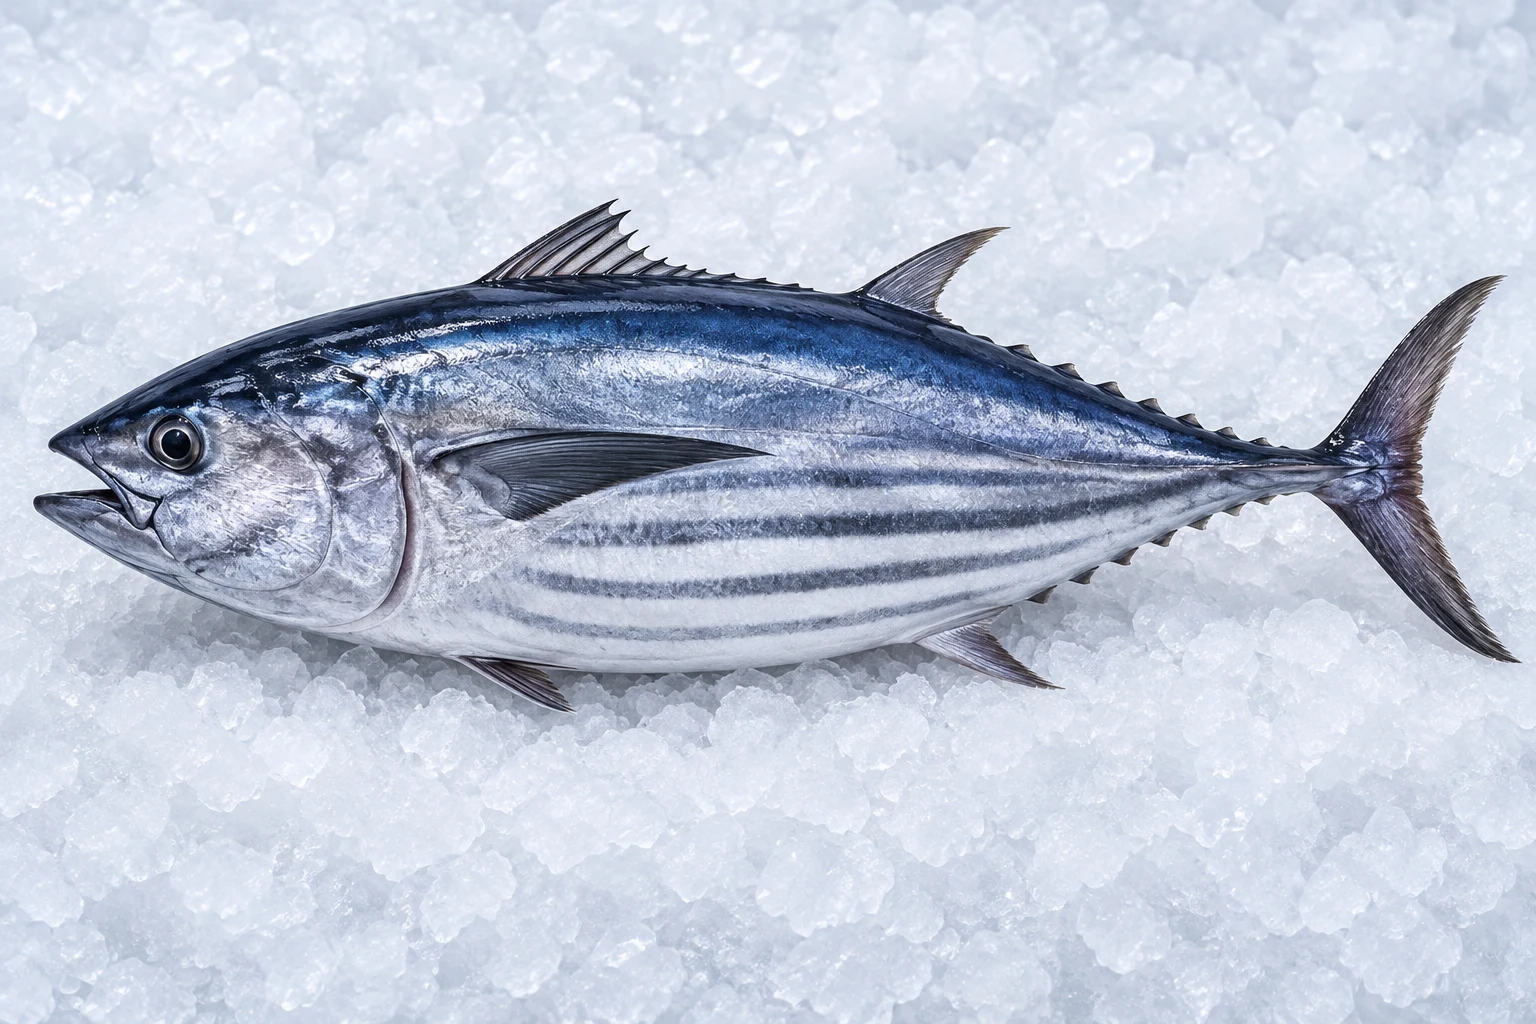
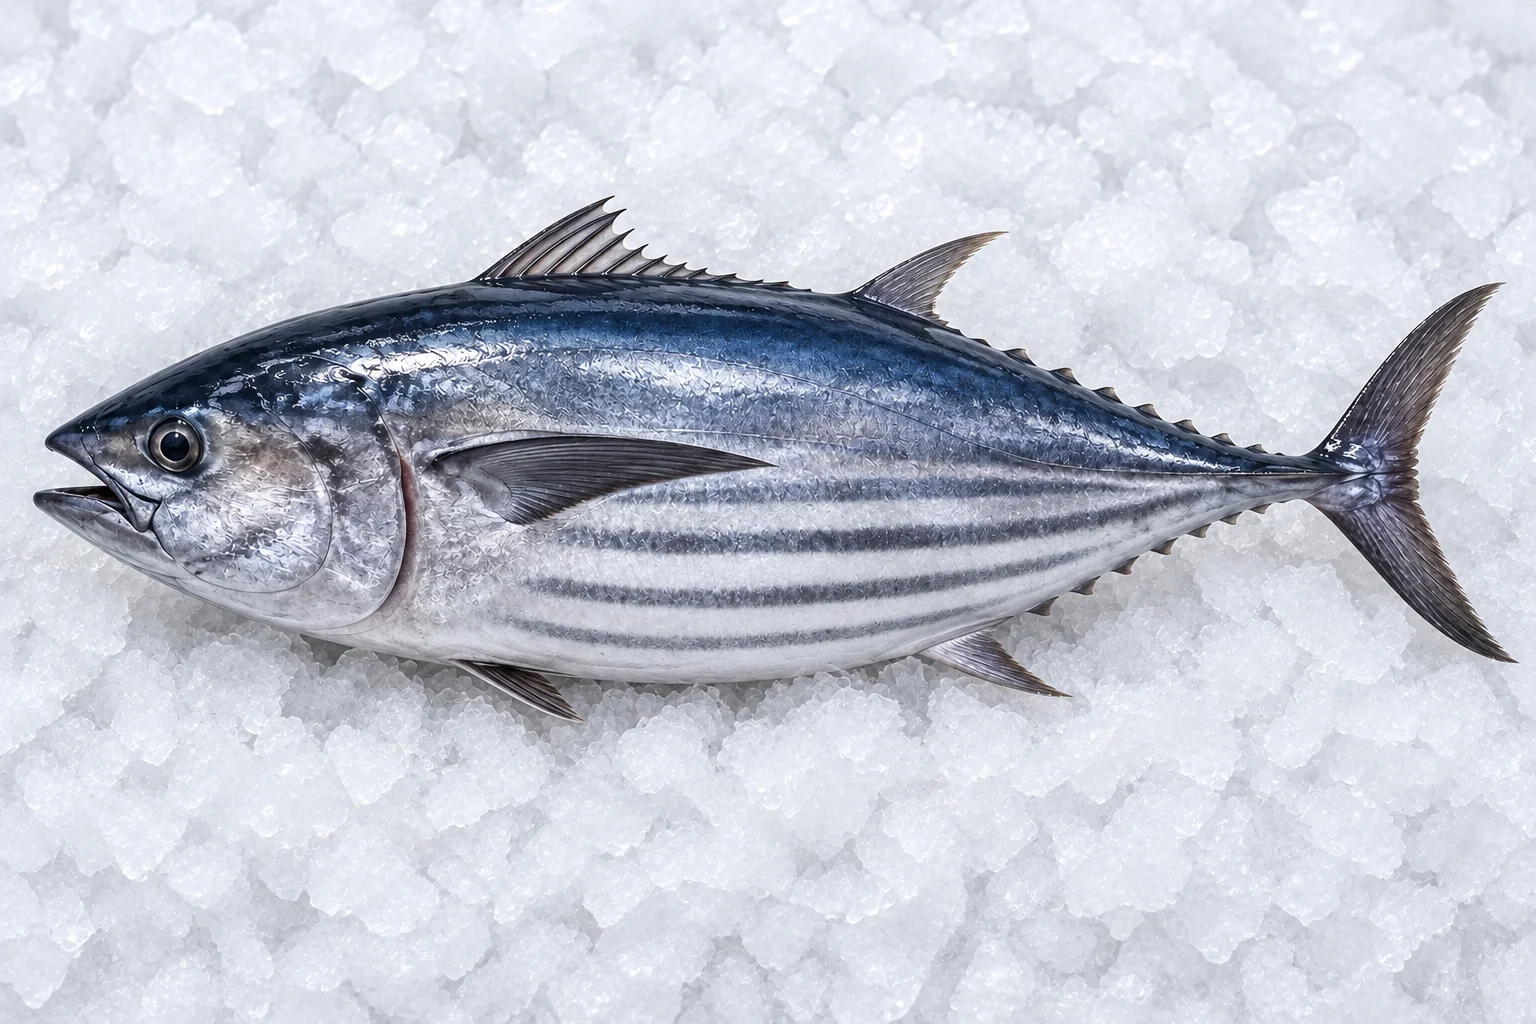
feat: refine seafood imagery and dock-to-table storefront

diff --git a/apps/web/src/styles/fish-storefront.css b/apps/web/src/styles/fish-storefront.css
@@ -4,18 +4,21 @@
 .language-switch { gap: 0; }
 .language-switch a { display: grid; place-items: center; min-width: 44px; min-height: 44px; text-decoration: none; }
 .language-switch a[aria-current="page"] { text-decoration: underline; text-decoration-thickness: 3px; text-underline-offset: 5px; }
-.fish-hero { position: relative; display: grid; align-items: end; min-height: 360px; overflow: hidden; border: 3px solid var(--color-ink); border-radius: 8px; background: var(--color-ink); color: white; }
-.fish-hero > img { position: absolute; width: 100%; height: 100%; inset: 0; object-fit: cover; object-position: 62% center; }
-.fish-hero::after { position: absolute; inset: 0; content: ''; background: linear-gradient(180deg, transparent, rgb(21 17 15 / .85)); }
-.fish-hero__copy { position: relative; z-index: 1; display: grid; justify-items: start; gap: 12px; padding: 20px; }
+.fish-hero { display: grid; overflow: hidden; border: 3px solid var(--color-ink); border-radius: 8px; background: var(--color-water); color: var(--color-ink); }
+.fish-hero__image { position: relative; border-bottom: 3px solid var(--color-ink); background: #edf5f7; }
+.fish-hero__image img { display: block; width: 100%; height: auto; aspect-ratio: 3 / 2; object-fit: contain; }
+.fish-hero__image > span { position: absolute; bottom: 6px; right: 6px; padding: 2px 6px; border: 1px solid var(--color-ink); border-radius: 4px; background: var(--color-paper); font-size: .6rem; font-weight: 700; }
+.fish-hero__copy { display: grid; justify-items: start; gap: 12px; padding: 18px; }
 .fish-hero__copy > span, .market-kicker { font-family: var(--font-impact); font-size: .7rem; text-transform: uppercase; }
-.fish-hero h1, .fish-shop-heading h1 { margin: 0; max-width: 9ch; font-family: var(--font-impact); font-size: clamp(2.3rem, 10vw, 3.25rem); line-height: .98; text-transform: uppercase; }
+.fish-hero h1, .fish-shop-heading h1 { margin: 0; max-width: 12ch; font-family: var(--font-impact); font-size: clamp(2rem, 8vw, 2.6rem); line-height: 1; text-transform: uppercase; }
 .fish-hero p { margin: 0; max-width: 28ch; font-size: .875rem; font-weight: 700; }
 .fish-hero .rd-ui-button { color: var(--color-ink); }
 .fish-categories { display: grid; grid-template-columns: repeat(2, minmax(0, 1fr)); gap: 10px; margin-block: 12px 24px; }
-.fish-categories .rd-ui-action-tile { min-height: 128px; }
-.fish-categories .rd-ui-action-tile__icon { width: 68px; height: 68px; overflow: hidden; }
-.fish-categories img { width: 64px; height: 64px; object-fit: contain; }
+.fish-categories .rd-ui-action-tile { min-height: 0; gap: 12px; padding: 8px; }
+.fish-categories .rd-ui-action-tile__top { position: relative; display: block; }
+.fish-categories .rd-ui-action-tile__top > svg { position: absolute; right: 4px; bottom: 4px; width: 22px; height: 22px; padding: 2px; background: var(--color-paper); border: 1px solid var(--color-ink); border-radius: 50%; }
+.fish-categories .rd-ui-action-tile__icon { display: block; width: 100%; height: auto; aspect-ratio: 3 / 2; overflow: hidden; border-radius: 6px; }
+.fish-categories .rd-ui-action-tile__icon img { display: block; width: 100%; height: 100%; object-fit: contain; }
 .fish-shop-heading { padding: 20px; margin-bottom: 20px; border: 3px solid var(--color-ink); border-radius: 8px; background: var(--color-water); box-shadow: 5px 5px 0 rgb(21 17 15 / .13); }
 .fish-shop-heading h1 { margin-block: 12px; }
 .fish-shop-heading p { margin: 0; font-size: .8rem; font-weight: 800; }
@@ -37,14 +40,15 @@
 .fish-card--pink { background: #ff9fd1; }
 .fish-card--yellow { background: var(--color-accent); }
 .fish-card--lime { background: var(--color-listed); }
-.fish-card__main { display: grid; grid-template-columns: minmax(100px, .9fr) minmax(0, 1.1fr); gap: 10px; }
-.fish-card__image { min-height: 138px; border: 2px solid var(--color-ink); border-radius: 6px; overflow: hidden; background: #edf5f7; }
+.fish-card__main { display: grid; gap: 10px; }
+.fish-card__image { aspect-ratio: 3 / 2; border: 2px solid var(--color-ink); border-radius: 6px; overflow: hidden; background: #edf5f7; }
 .fish-card__image img { display: block; width: 100%; height: 100%; object-fit: contain; }
-.fish-card__copy { display: flex; flex-direction: column; align-items: start; gap: 3px; min-width: 0; }
+.fish-card__copy { display: grid; grid-template-columns: minmax(0, 1fr) auto; align-items: start; gap: 3px 10px; min-width: 0; }
+.fish-card__copy > :not(.fish-card__price) { grid-column: 1; }
 .fish-card__eyebrow { font-size: .7rem; font-weight: 800; }
 .fish-card h3 { font-family: var(--font-impact); font-size: 1.45rem; line-height: 1.05; margin: 0; overflow-wrap: anywhere; }
 .fish-card__copy p, .fish-card__weight { font-size: .75rem; font-weight: 700; margin: 0; }
-.fish-card__price { display: flex; flex-direction: column; margin-top: auto; }
+.fish-card__price { grid-column: 2; grid-row: 2 / 5; display: flex; flex-direction: column; align-items: end; align-self: end; }
 .fish-card__price span { font-size: .65rem; }
 .fish-card__price strong { font-family: var(--font-impact); font-size: 1.15rem; }
 .fish-card__details { margin-top: 8px; border-top: 2px solid rgb(21 17 15 / .2); font-size: .75rem; }

diff --git a/apps/web/src/styles/market.css b/apps/web/src/styles/market.css
@@ -76,9 +76,8 @@
 
 .market-card {
   display: grid;
-  grid-template-rows: minmax(0, 1fr) auto;
-  gap: 5px;
-  aspect-ratio: 1;
+  grid-template-rows: auto 1fr auto;
+  gap: 8px;
   min-width: 0;
   padding: 6px;
   color: var(--color-ink);
@@ -92,6 +91,7 @@
 .market-card--yellow { background: var(--color-accent); }
 .market-card--blue { background: var(--color-water); }
 .market-card__media {
+  display: block;
   position: relative;
   min-width: 0;
   min-height: 0;
@@ -99,13 +99,7 @@
   border: 2px solid var(--color-ink);
   border-radius: 6px;
   background: var(--color-earth);
-}
-.market-card__media::after {
-  position: absolute;
-  inset: 0;
-  content: '';
-  background: linear-gradient(180deg, rgb(21 17 15 / 25%), transparent 35%, rgb(21 17 15 / 88%));
-  pointer-events: none;
+  aspect-ratio: 3 / 2;
 }
 .market-card__media img, .market-card__media picture {
   display: block;
@@ -114,15 +108,11 @@
   object-fit: cover;
 }
 .market-card__image-copy {
-  position: absolute;
-  z-index: 1;
-  inset: 4px;
   display: flex;
   flex-direction: column;
   align-items: start;
-  justify-content: space-between;
+  gap: 7px;
   min-width: 0;
-  pointer-events: none;
 }
 .market-card__status {
   min-height: 20px;
@@ -131,17 +121,14 @@
 }
 .market-card__status .rd-ui-badge__dot { display: none; }
 .market-card__status strong { font-size: .65rem; }
-.market-card__image-facts { display: grid; min-width: 0; gap: 1px; color: white; text-shadow: 0 1px 6px var(--color-ink); }
-.market-card h2 { margin: 0; font-family: var(--font-impact); font-size: 1.32rem; letter-spacing: -.03em; line-height: 1; overflow-wrap: anywhere; }
+.market-card__image-facts { display: grid; min-width: 0; gap: 4px; color: var(--color-ink); }
+.market-card h2 { margin: 0; font-family: var(--font-impact); font-size: 1.2rem; letter-spacing: -.03em; line-height: 1.1; overflow-wrap: anywhere; }
 .market-card__image-facts p, .market-card__image-facts small {
   display: block;
   margin: 0;
-  overflow: hidden;
   font-size: .71rem;
   font-weight: 900;
-  line-height: 1.1;
-  text-overflow: ellipsis;
-  white-space: nowrap;
+  line-height: 1.3;
 }
 .market-card__image-facts small { font-size: .64rem; }
 .market-card__foot { display: flex; align-items: center; justify-content: space-between; gap: 3px; min-width: 0; }
@@ -156,12 +143,12 @@
 }
 .market-card__action:hover { background: #fff; }
 @media (max-width: 350px) {
-  .market-card { padding: 4px; gap: 3px; }
+  .market-card { padding: 4px; gap: 6px; }
   .market-card h2 { font-size: 1.08rem; }
   .market-card__image-facts p { white-space: normal; text-overflow: clip; line-height: 1.05; }
   .market-card__image-facts p span:not(.market-card__fact-divider) { display: block; }
   .market-card__fact-divider { display: none; }
-  .market-card__image-facts small { display: none; }
+  .market-card__image-facts small { font-size: .6rem; }
   .market-card__foot strong { font-size: .77rem; }
   .market-card__action { min-width: 44px; padding-inline: 4px; font-size: .58rem; }
 }
@@ -174,6 +161,7 @@ html:has(.market-detail) { background: var(--color-review); }
 .market-detail__media { position: relative; min-width: 0; }
 .market-detail__media picture, .market-detail__media img { display: block; width: 100%; height: auto; }
 .market-detail__media img { aspect-ratio: 1.05; object-fit: cover; border: 3px solid var(--color-ink); border-radius: var(--radius-card); }
+.market-detail__media[data-reference="true"] img { aspect-ratio: 3 / 2; object-fit: contain; background: #edf5f7; }
 .market-detail__photo-badge { position: absolute; top: var(--space-3); left: var(--space-3); }
 .market-detail__media p { margin: 4px 0 0; color: var(--color-ink-soft); font-size: .68rem; font-weight: 700; }
 .market-detail__copy { display: grid; gap: var(--space-2); margin-top: var(--space-2); }

diff --git a/apps/web/src/data/fish.ts b/apps/web/src/data/fish.ts
@@ -29,17 +29,17 @@ export const storefrontLots = fish.map((item) => ({
 
 export const copy = {
   en: {
-    title: 'Fish market', region: 'Japan’s east coast', hero: 'Good fish. Great finds.', lead: 'A little closer to the coast. Meet the fish, explore the market.',
+    title: 'Fish market', region: 'Japan’s east coast', hero: 'From the dock. To your table.', lead: 'Support local fishers. Bring Japan’s Pacific coast catch to more tables.',
     shop: 'Shop the market', all: 'All seafood', fish: 'Whole fish', tuna: 'Tuna & katsuo', shellfish: 'Shellfish', browse: 'Find your fish', collection: 'Meet the catch',
     search: 'Search fish', searchHint: 'Try saba, tuna or サバ', preview: 'Market preview', note: 'Sample lots and prices. Fish images are AI-generated illustrations, not actual lot photos.',
     price: 'Guide price', settlement: 'Settlement: JPYC', details: 'Lot details', weight: 'Weight', length: 'Length', review: 'Review pending', audit: 'No activity recorded for this preview lot.',
-    empty: 'No fish match. Try another search or category.', count: 'species shown', credits: 'Image credits', creditNote: 'The six fish portraits are AI-generated illustrations. The market photograph is credited below.', landingCredit: 'Katsuo landing, Omaezaki',
+    empty: 'No fish match. Try another search or category.', count: 'species shown', credits: 'Image credits', creditNote: 'The seafood portraits and storefront hero are AI-generated illustrations. They do not depict current inventory or a specific supplier.',
   },
   ja: {
-    title: '魚市場', region: '日本の太平洋沿岸', hero: '海のごちそう、見つけよう。', lead: '海をもっと身近に。魚を知って、市場を楽しもう。',
+    title: '魚市場', region: '日本の太平洋沿岸', hero: '港から、食卓へ。', lead: '地域の漁業者を応援。日本の太平洋沿岸の魚を、もっと多くの買い手と食卓へ。',
     shop: '魚を探す', all: 'すべて', fish: '鮮魚', tuna: 'マグロ・カツオ', shellfish: '貝類', browse: '魚を探す', collection: '魚のラインナップ',
     search: '魚を検索', searchHint: 'サバ、マグロ、saba など', preview: '市場プレビュー', note: '魚と価格はデモ用です。魚の画像はAI生成のイメージで、出品物の写真ではありません。',
     price: '参考価格', settlement: '決済通貨：JPYC', details: '商品情報', weight: '重量', length: '全長', review: '確認待ち', audit: 'このプレビュー商品の取引履歴はありません。',
-    empty: '該当する魚がありません。検索語やカテゴリーを変えてください。', count: '種類を表示', credits: '画像クレジット', creditNote: '6種類の魚の画像はAI生成のイメージです。市場の写真のクレジットは以下のとおりです。', landingCredit: '御前崎のカツオ水揚げ',
+    empty: '該当する魚がありません。検索語やカテゴリーを変えてください。', count: '種類を表示', credits: '画像クレジット', creditNote: '魚の画像とトップ画像はAI生成のイメージです。現在の在庫や特定の生産者を撮影したものではありません。',
   },
 } as const;

diff --git a/apps/web/src/lib/market-board.ts b/apps/web/src/lib/market-board.ts
@@ -49,7 +49,8 @@ if (market) {
     const tones = ['lime', 'pink', 'yellow', 'blue'];
     const tone = listing.status === 'settled' ? 'pink' : tones[index % tones.length];
     const article = element('article', `market-card market-card--${tone}`);
-    const imageWrap = element('div', 'market-card__media');
+    const imageWrap = element('a', 'market-card__media');
+    imageWrap.href = `${base}shop/lot/?id=${encodeURIComponent(listing.lot_id)}`;
     const image = element('img');
     const species = (listing.species_label ?? '').toLowerCase();
     image.src = listing.image_ref ?? images[species] ?? art;
@@ -66,6 +67,7 @@ if (market) {
     badge.append(element('span', 'rd-ui-badge__dot'), element('strong', undefined, listing.demo ? `${availability} ${t.demo}` : availability));
     const factsCopy = element('div', 'market-card__image-facts');
     const title = element('h2', undefined, names[species] ?? listing.species_label ?? t.unknown);
+    imageWrap.setAttribute('aria-label', `${t.view} ${title.textContent}`);
     const weight = listing.weight_g === null ? t.weightUnknown : `${listing.weight_g.toLocaleString('ja-JP')} g`;
     const length = listing.length_mm === null ? t.lengthUnknown : `${listing.length_mm} mm`;
     const facts = element('p');
@@ -76,13 +78,12 @@ if (market) {
     factsCopy.append(title, facts, landed);
     if (!listing.image_ref) factsCopy.append(element('small', undefined, t.sample));
     copy.append(badge, factsCopy);
-    imageWrap.append(copy);
     const foot = element('div', 'market-card__foot');
     foot.append(element('strong', undefined, `¥${listing.price_jpy.toLocaleString('ja-JP')}`));
     const link = element('a', 'rd-ui-button rd-ui-button--ink rd-ui-button--secondary market-card__action', t.view);
-    link.href = `${base}shop/lot/?id=${encodeURIComponent(listing.lot_id)}`;
+    link.href = imageWrap.href;
     foot.append(link);
-    article.append(imageWrap, foot);
+    article.append(imageWrap, copy, foot);
     return article;
   }
 

diff --git a/apps/web/src/lib/lot-detail.ts b/apps/web/src/lib/lot-detail.ts
@@ -37,7 +37,7 @@ if (root) {
     photo.removeAttribute('srcset');
     photo.src = src;
     photo.alt = 'AI-generated species illustration, not a landing photograph';
-    photo.style.objectFit = 'contain';
+    photo.closest<HTMLElement>('.market-detail__media')!.dataset.reference = 'true';
     set('[data-photo-caption]', 'AI-generated illustration, not a photograph of this lot.');
     const caption = root?.querySelector<HTMLElement>('[data-photo-caption]');
     if (caption) caption.hidden = false;
@@ -98,6 +98,7 @@ if (root) {
       photo.closest('picture')?.querySelectorAll('source').forEach((source) => source.remove());
       photo.removeAttribute('srcset');
       photo.src = observation.image_ref;
+      photo.closest<HTMLElement>('.market-detail__media')!.dataset.reference = 'false';
       photo.alt = `Landing photograph for ${facts.species_label ?? 'this lot'}`;
       set('[data-photo-caption]', 'Landing photo submitted with this scan.');
       const caption = root?.querySelector<HTMLElement>('[data-photo-caption]');

diff --git a/apps/web/src/assets/fish/README.md b/apps/web/src/assets/fish/README.md
@@ -1,5 +1,7 @@
 # Seafood imagery
 
-The six `*-ice.webp` assets are AI-generated illustrations of katsuo, sanma, saba, hotate, mebachi maguro and awabi on crushed ice. They are optimized WebP copies of the generated originals. They are presentation assets, not lot photographs, landing evidence, classifier inputs or validated species references. Submitted landing photos take precedence in live listings and lot details.
+The six `*-ice.webp` assets are AI-generated illustrations of katsuo, sanma, saba, hotate, mebachi maguro and awabi on crushed ice. Refined with the built-in image generation tool on 26 September 2026 for softer lighting, natural color and consistent framing; optimized as 1536 × 1024 WebP files.
 
-`katsuo-landing.jpg` is [Katsuo landing at Omaezaki](https://commons.wikimedia.org/wiki/File:Katsuo_no_Mizuage_20100530.jpg) by omaezakicity, licensed under [CC BY 4.0](https://creativecommons.org/licenses/by/4.0/). This copy is a Wikimedia thumbnail and is resized for display. Public image credits appear on the storefront. No source endorsement is implied.
+`dockside-catch.webp` is an AI-generated editorial-style hero showing fish on ice beside a harbor. It does not depict a named harbor, actual landing or supplier.
+
+These are presentation assets, not lot photographs, landing evidence, classifier inputs or validated species references. Submitted landing photos take precedence in live listings and lot details. Illustration labels remain visible in English and Japanese.
